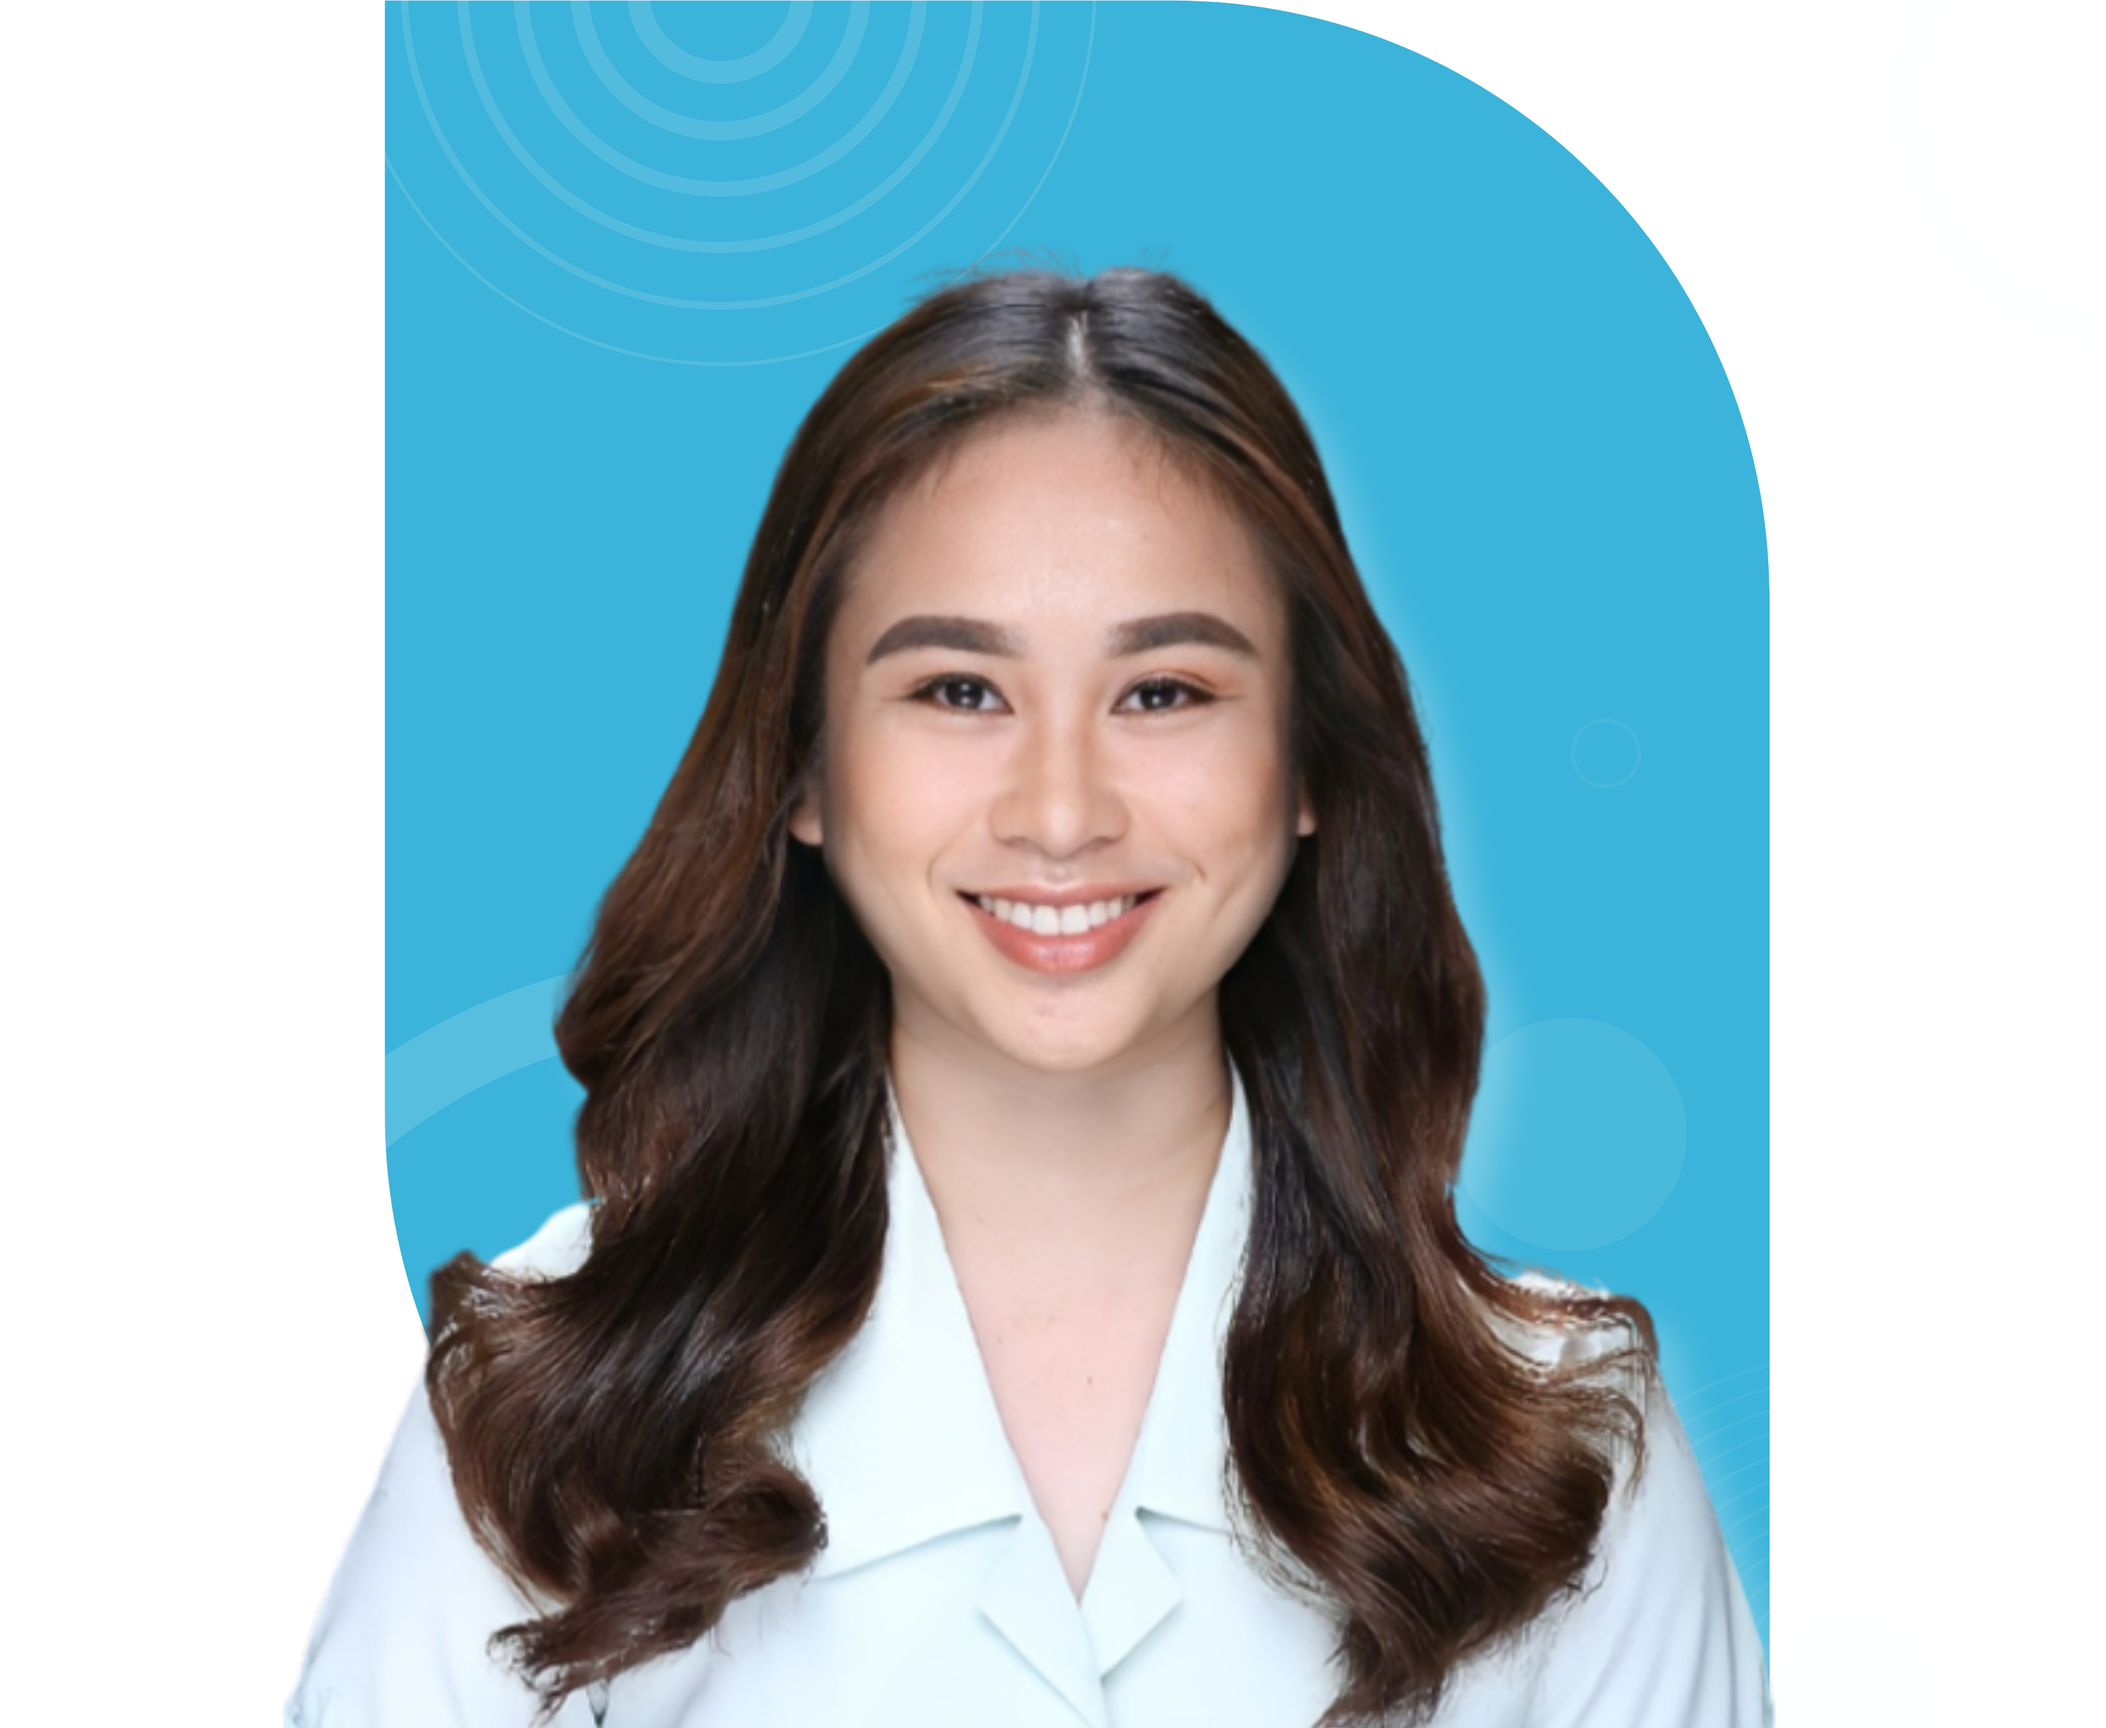
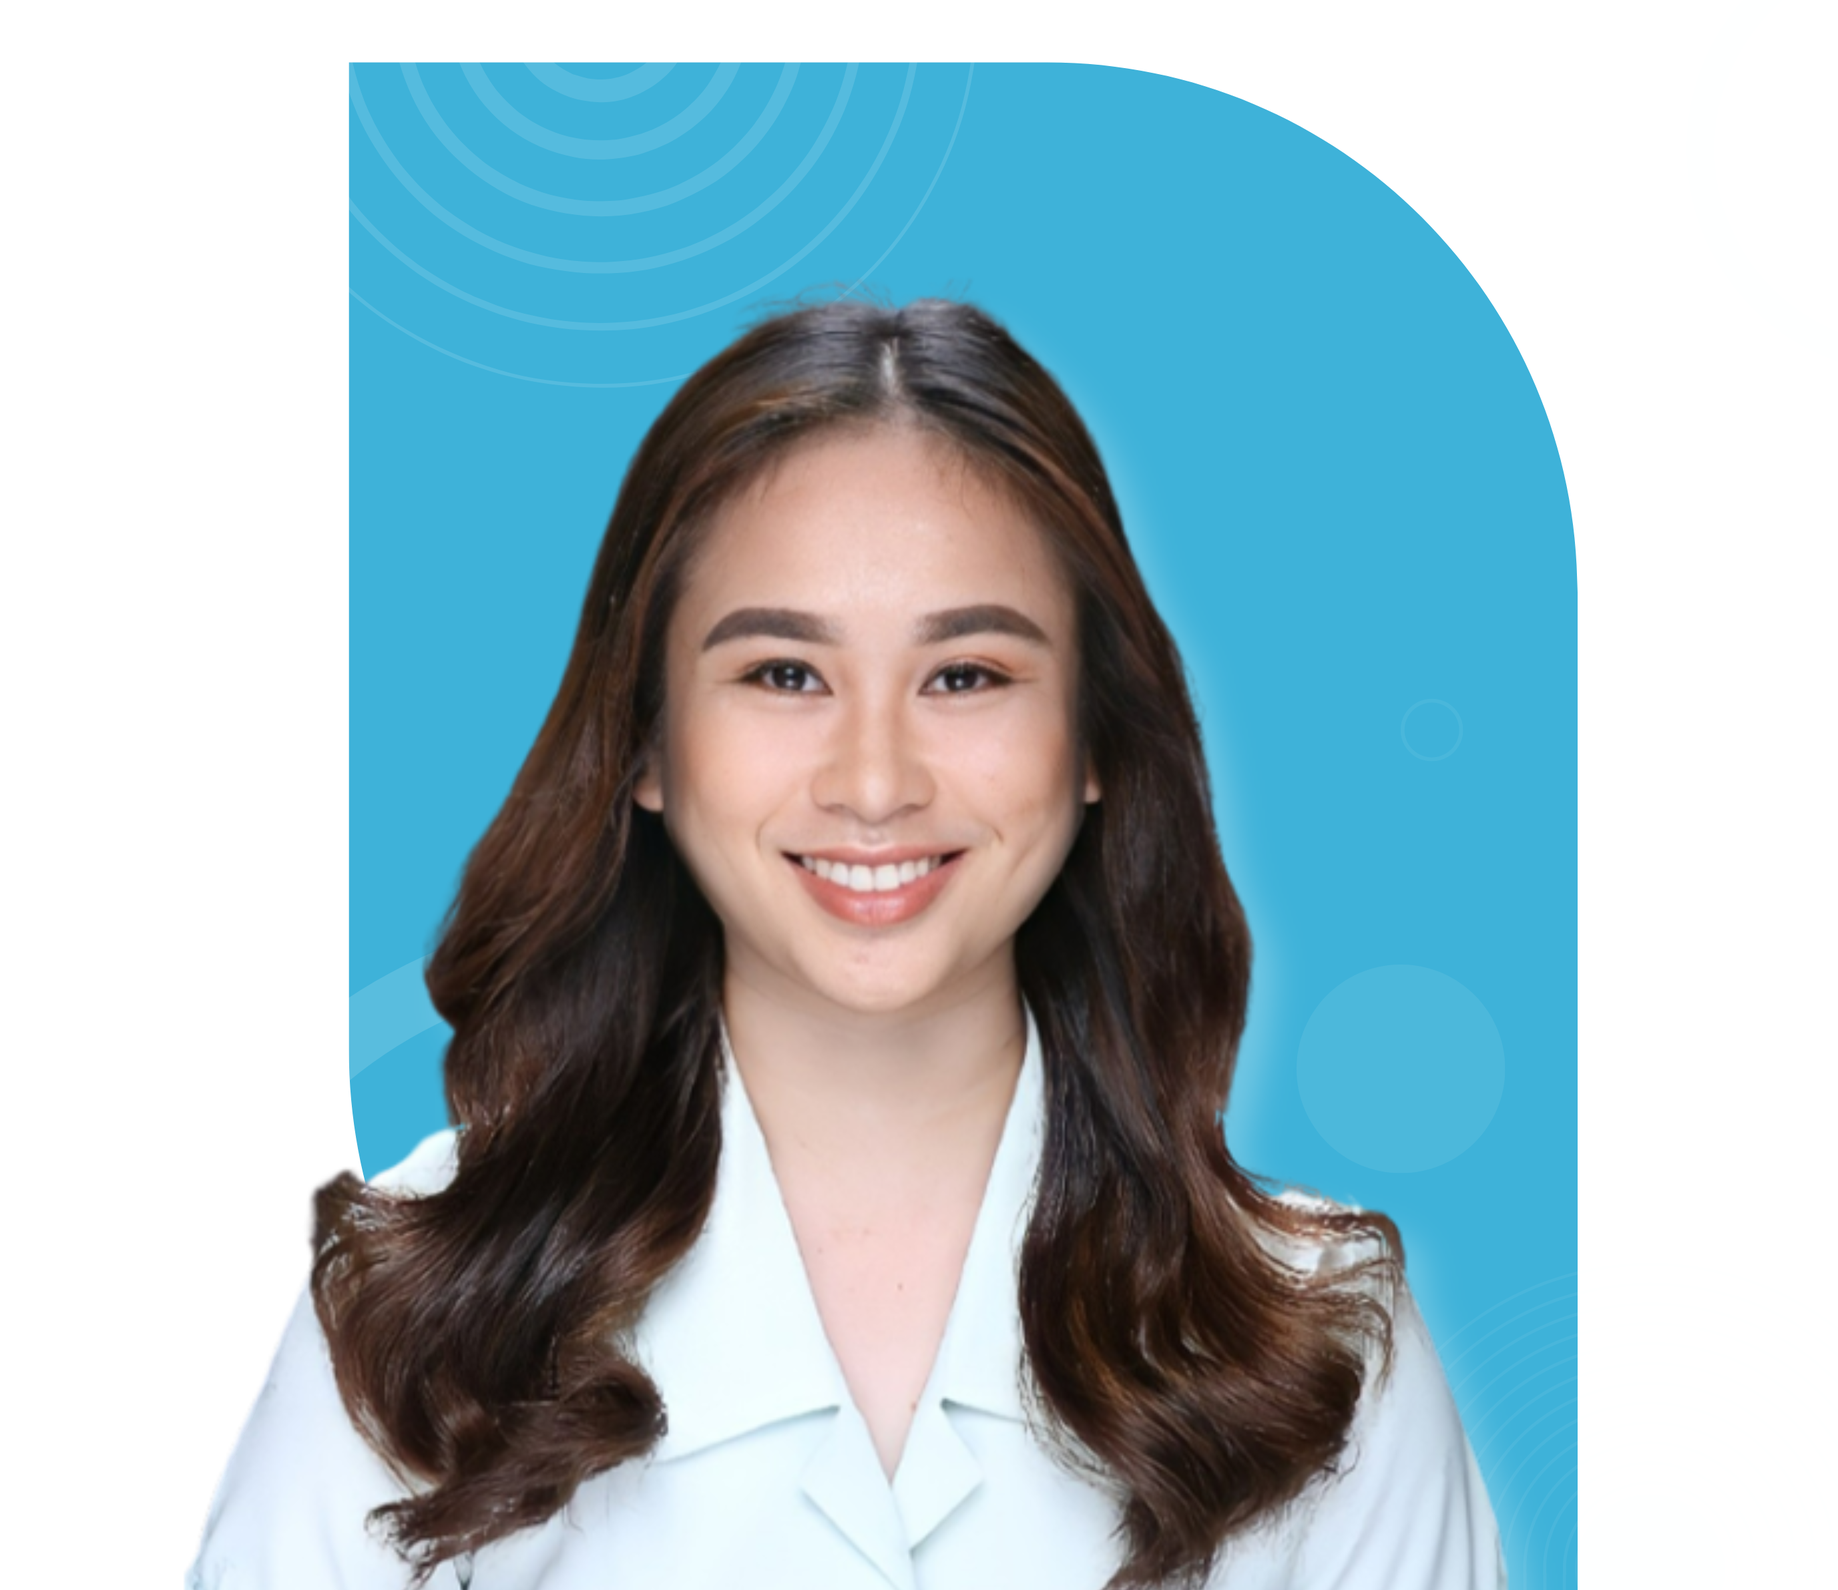
Added an SVG and resizing the picture in the hero section

Changed region(s): [[0.0937, 0.0, 0.8747, 1.0], [0.4373, 0.932, 0.4686, 0.9631]]

diff --git a/app/page.tsx b/app/page.tsx
@@ -8,6 +8,7 @@ import { Input } from "@/components/ui/input"
 import { Textarea } from "@/components/ui/textarea"
 import { Github, Linkedin, Mail, ExternalLink, Code, Palette, ArrowRight, CheckCircle2 } from "lucide-react"
 import Image from "next/image"
+import { DecorWaveAlt } from "@/components/decor-wave-alt"
 import {
   SiHtml5,
   SiCss3,
@@ -74,11 +75,12 @@ export default function Portfolio() {
       <div className="h-16"></div>
 
       {/* Hero Section - Grafik style */}
-      <section className="relative py-16 md:py-24 px-4 overflow-hidden bg-white">
+      <section className="relative py-10 md:py-16 px-4 overflow-hidden bg-white">
+        <DecorWaveAlt className="pointer-events-none absolute right-0 top-0 w-56 md:w-96 h-20 md:h-28 z-0 rotate-180" color="#84D3EB" opacity={0.35} />
         
         <div className="container mx-auto relative z-10">
           <div className="grid md:grid-cols-2 gap-1 md:gap-0 items-center">
-          <div className="relative z-10 md:order-2 w-full md:w-[72vw] lg:w-[66vw] xl:w-[60vw] max-w-none mx-auto ml-0 md:-ml-28 lg:-ml-40 xl:-ml-[10rem] md:-translate-x-8 lg:-translate-x-12 xl:-translate-x-16 mt-6 md:mt-0 justify-self-start md:justify-self-start md:scale-110 lg:scale-125 xl:scale-125 origin-left overflow-hidden group animate-slide-in-right"> 
+          <div className="relative z-10 md:order-2 w-full md:w-[68vw] lg:w-[62vw] xl:w-[60vw] max-w-none mx-auto ml-0 md:-ml-28 lg:-ml-40 xl:-ml-[10rem] md:-translate-x-8 lg:-translate-x-12 xl:-translate-x-16 mt-0 md:-mt-2 justify-self-start md:justify-self-start md:scale-105 lg:scale-115 xl:scale-115 origin-left overflow-hidden group animate-slide-in-right animate-hero-in"> 
 
 <Image
   src="/heropic.png"
@@ -87,16 +89,16 @@ export default function Portfolio() {
   height={2000}
   quality={100}
   sizes="(min-width:1280px) 60vw, (min-width:1024px) 66vw, (min-width:768px) 72vw, 92vw"
-  className="w-full h-auto md:h-full object-cover transition-transform duration-500 ease-out will-change-transform cursor-zoom-in group-hover:scale-110 active:scale-110"
+  className="w-full h-auto md:h-full object-cover transition-transform duration-500 ease-out will-change-transform cursor-zoom-in group-hover:scale-110 active:scale-110 animate-float-slow"
   priority
 />
 </div>
-            <div className="relative z-30 md:order-1 max-w-3xl md:max-w-4xl">
+            <div className="relative z-30 md:order-1 max-w-3xl md:max-w-4xl md:self-center md:-translate-y-4 lg:-translate-y-8 xl:-translate-y-10">
               
               <span className="text-sm font-semibold text-[#0861A0] uppercase tracking-wider">Hello</span>
-              <h1 className="mt-3 text-5xl md:text-6xl font-extrabold leading-tight text-[#0861A0]">I'm Mary Mhar Perez</h1>
+              <h1 className="mt-3 text-5xl md:text-7xl font-extrabold leading-tight tracking-tight text-[#0861A0]">I'm Mary Mhar Perez</h1>
               <p className="mt-3 text-xl md:text-2xl font-semibold text-[#eac92d]">Full-Stack Developer | WordPress Developer | Graphic Designer</p>
-              <p className="mt-5 text-muted-foreground max-w-3xl leading-relaxed">
+              <p className="mt-5 text-muted-foreground max-w-3xl leading-relaxed" style={{ textAlign: 'justify' }}>
                 Fresh graduate and aspiring Full-Stack Developer with internship experience as a WordPress Developer. Skilled in building responsive web applications using Laravel, Django, and React, with a foundation in SQL and JavaScript. Strong background in UI/UX and graphic design, enabling me to create user-friendly and visually engaging solutions. Eager to contribute to a dynamic team where I can grow as a developer and apply both technical and creative skills.
               </p>
               
@@ -113,7 +115,7 @@ export default function Portfolio() {
            
           </div>
         </div>
-        <div className="pointer-events-none absolute inset-x-0 bottom-0 h-40 md:h-56 bg-gradient-to-b from-transparent to-[#0b62a1]/100 z-20"></div>
+        <div className="pointer-events-none absolute inset-x-0 bottom-0 h-24 md:h-32 bg-gradient-to-b from-transparent to-[#0b62a1]/100 z-20"></div>
       </section>
 
       {/* Testimonials */}

diff --git a/components/decor-wave-alt.tsx b/components/decor-wave-alt.tsx
@@ -1,0 +1,37 @@
+"use client"
+
+import React from "react"
+
+type DecorWaveAltProps = {
+  className?: string
+  color?: string
+  opacity?: number
+}
+
+export function DecorWaveAlt({ className, color = "#0861A0", opacity = 0.25 }: DecorWaveAltProps) {
+  return (
+    <svg
+      aria-hidden="true"
+      className={className}
+      viewBox="0 0 1440 280"
+      preserveAspectRatio="none"
+      style={{ display: "block", width: "100%", height: "100%" }}
+    >
+      <defs>
+        <linearGradient id="dw-alt-grad" x1="0" x2="1" y1="0" y2="0">
+          <stop offset="0%" stopColor={color} stopOpacity={opacity} />
+          <stop offset="100%" stopColor={color} stopOpacity={opacity * 0.6} />
+        </linearGradient>
+      </defs>
+      <path
+        fill="url(#dw-alt-grad)"
+        d="M0 160 C 160 120, 320 200, 480 170 C 640 140, 800 60, 960 100 C 1120 140, 1280 230, 1440 200 L 1440 280 L 0 280 Z"
+      />
+      <path
+        fill={color}
+        opacity={opacity * 0.7}
+        d="M0 110 C 160 90, 320 130, 480 110 C 640 90, 800 30, 960 70 C 1120 110, 1280 170, 1440 150 L 1440 280 L 0 280 Z"
+      />
+    </svg>
+  )
+}

diff --git a/app/globals.css b/app/globals.css
@@ -101,10 +101,39 @@
   .animate-slide-in-right {
     animation: slide-in-right 700ms ease-out both;
   }
+
+  /* New hero image animations */
+  @keyframes hero-fade-up {
+    from {
+      transform: translateY(16px) scale(0.98);
+      opacity: 0;
+    }
+    to {
+      transform: translateY(0) scale(1);
+      opacity: 1;
+    }
+  }
+
+  @keyframes float-slow {
+    0%, 100% { transform: translateY(0); }
+    50% { transform: translateY(-6px); }
+  }
+
+  .animate-hero-in {
+    animation: hero-fade-up 700ms cubic-bezier(0.22, 1, 0.36, 1) both;
+  }
+
+  .animate-float-slow {
+    animation: float-slow 6s ease-in-out infinite;
+  }
 }
 
 @media (prefers-reduced-motion: reduce) {
   .animate-slide-in-right {
+    animation: none !important;
+  }
+  .animate-hero-in,
+  .animate-float-slow {
     animation: none !important;
   }
 }
